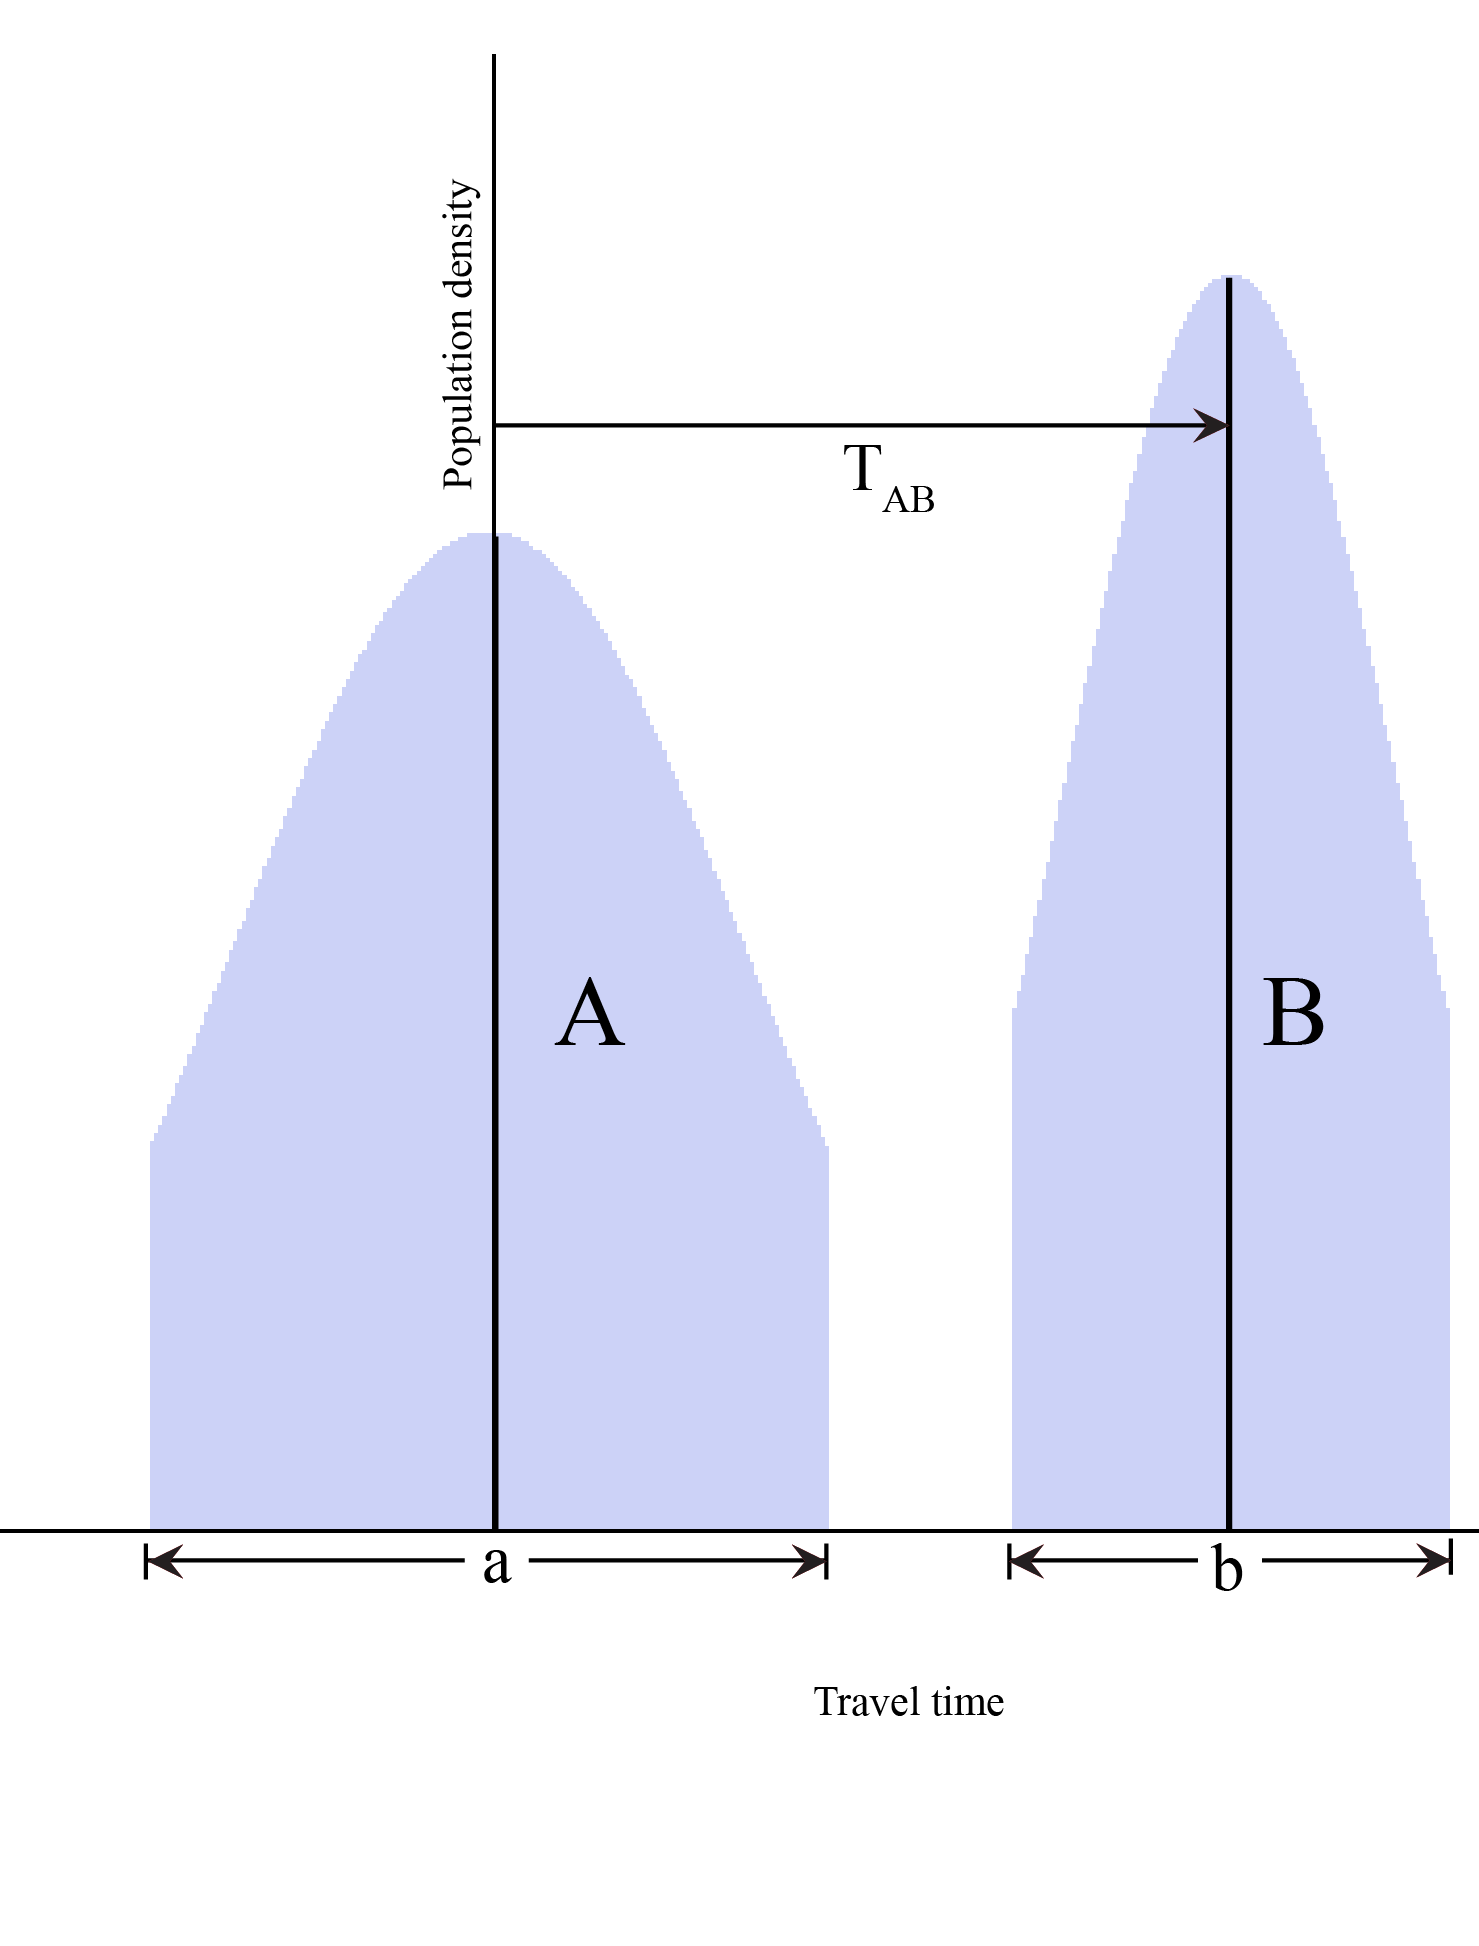
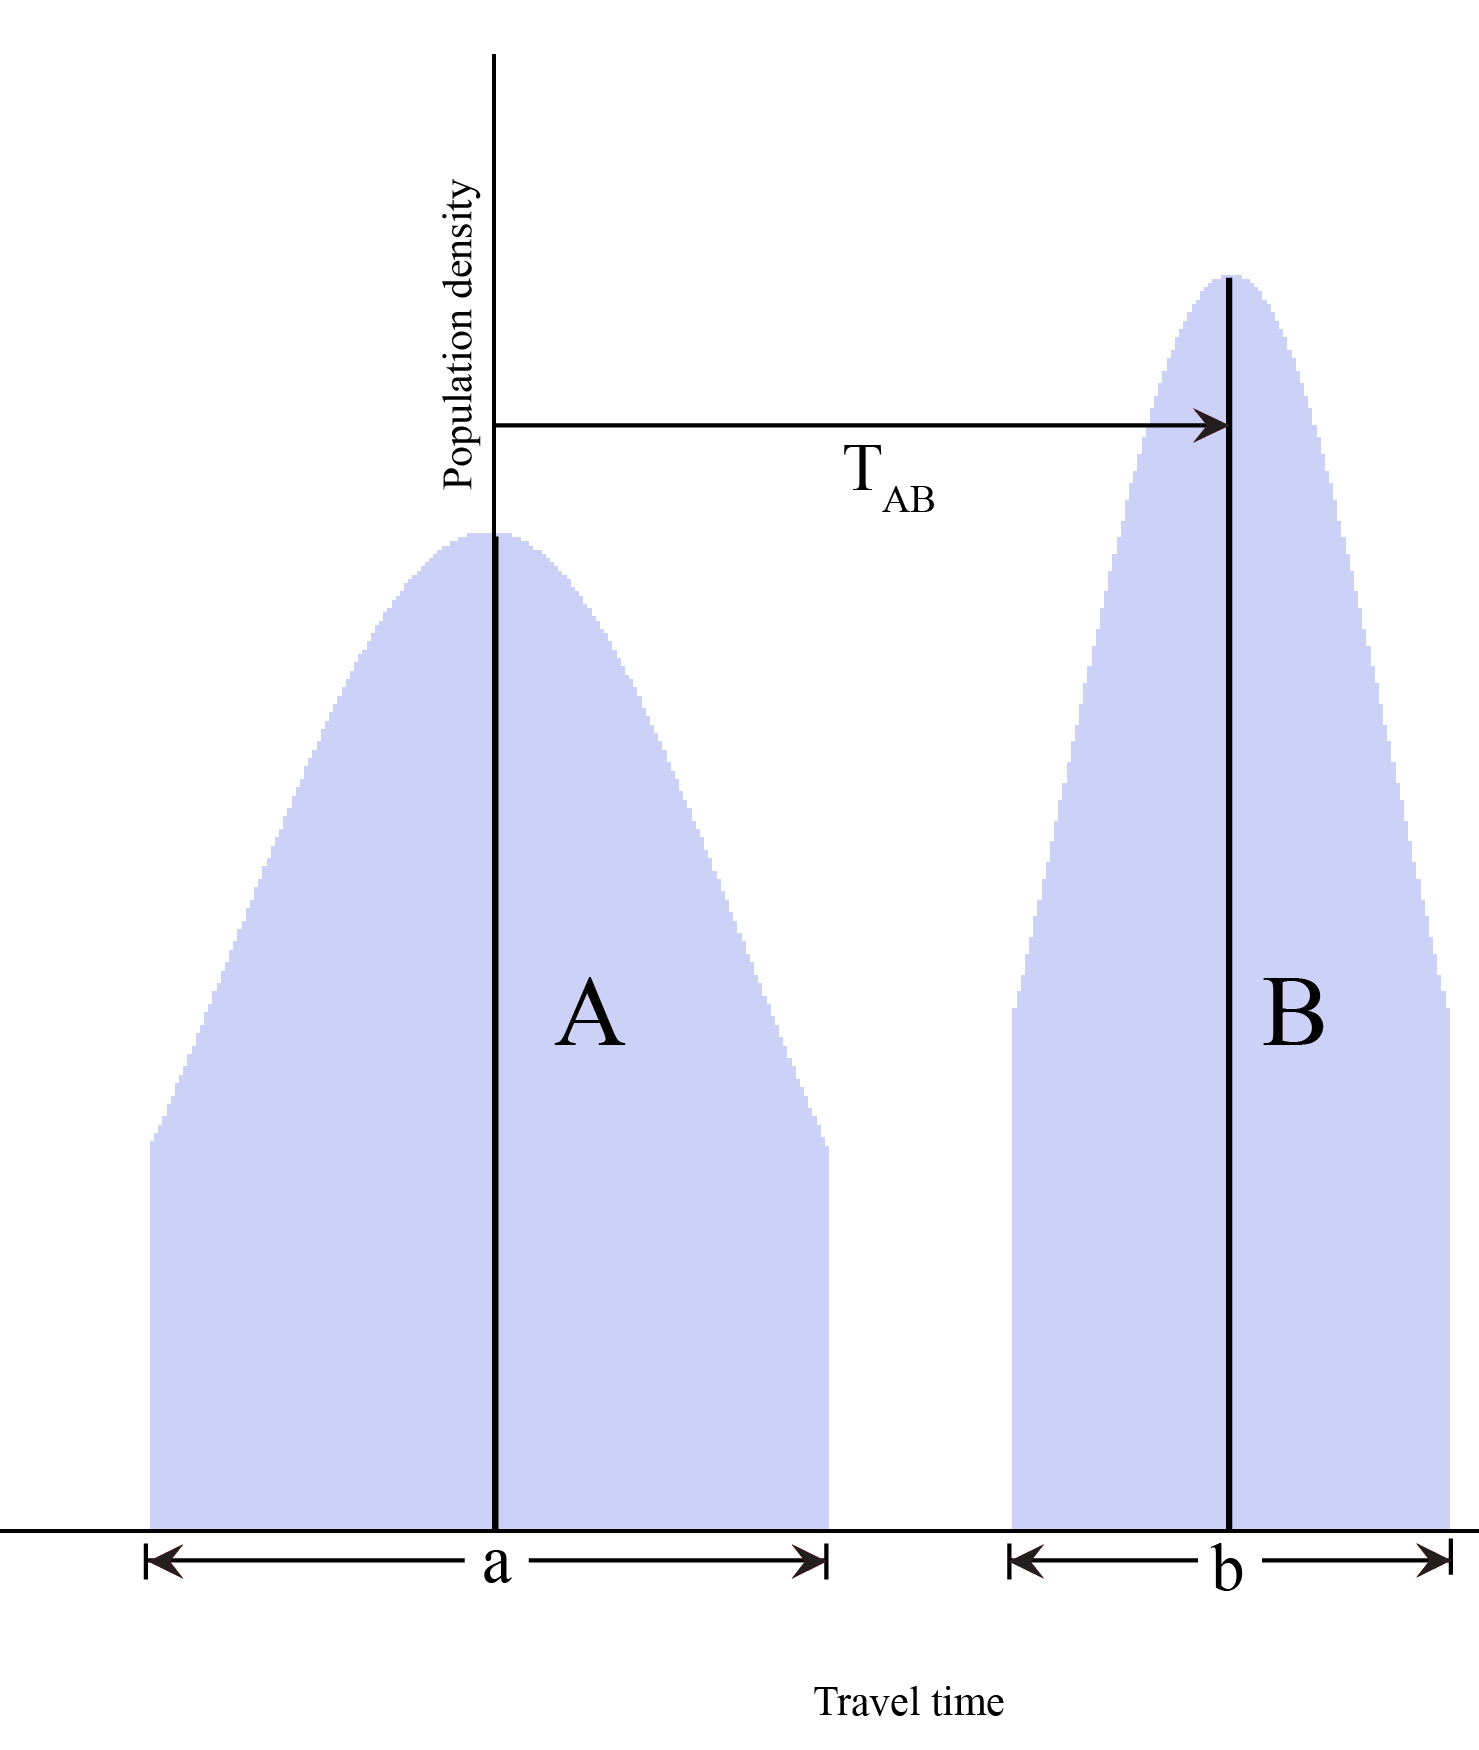
Resized figures & stuff.

diff --git a/LaTeX/paper.tex b/LaTeX/paper.tex
@@ -90,25 +90,42 @@ will be hereafter referred to as zone-to-zone coverage.
 
 A lack of spatial understanding of the county entails the use of a different type of population density. Rather than expressing population as a function of area or distance, we chose to express population density in terms of travel time from a reference point. This is analogous to plotting the number of people a vehicle is likely to meet at each time as it drives along a one-dimensional path.
 
-
-\begin{figure}[htbp]
-\begin{center}
-\includegraphics[width=4in]{B(t).png}
-\caption{An example of a zone's population density as a function of travel time from another zone.}
-\label{B(t)}
-\end{center}
+\begin{figure}
+\centering
+\begin{subfigure}{.45\textwidth}
+  \centering
+  \includegraphics[width=0.9\linewidth]{B(t).png}
+  \caption{An example of a zone's population density as a function of travel time from another zone.}
+  \label{fig:sub1}
+\end{subfigure}%
+\hfill
+\begin{subfigure}{.45\textwidth}
+  \centering
+  \includegraphics[width=0.9\linewidth]{A(t)B(t).png}
+  \caption{An2 example of a zone's population density as a function of travel time from another zone.}
+  \label{fig:sub2}
+\end{subfigure}
+\caption{Overarching caption whatever}
+\label{fig:test}
 \end{figure}
+%\begin{figure}[htbp]
+%\begin{center}
+%\includegraphics[width=4in]{B(t).png}
+%\caption{An example of a zone's population density as a function of travel time from another zone.}
+%\label{B(t)}
+%\end{center}
+%\end{figure}
 
 The population that the ambulance can cover in a second zone from a first zone (not necessarily distinct), will be referred to as zone-to-zone coverage.
 
-\begin{figure}[htbp]
-\begin{center}
+%\begin{figure}[htbp]
+%\begin{center}
 
-\includegraphics[width=4in]{A(t)B(t).png}
-\caption{An2 example of a zone's population density as a function of travel time from another zone.}
-\label{A(t)B(t)}
-\end{center}
-\end{figure}
+%\includegraphics[width=4in]{A(t)B(t).png}
+%\caption{An2 example of a zone's population density as a function of travel time from another zone.}
+%\label{A(t)B(t)}
+%\end{center}
+%\end{figure}
 
 \begin{description}
     \item[$\mathbf{A(t), B(t)}$] \hfill \\
@@ -243,10 +260,10 @@ travel times to any area, it should put significantly more weight on minimizing 
     \begin{tabular}{ p{6.25cm}|p{6.25cm} }
         \textbf{Strengths} & \textbf{Weaknesses}\\
         \hline
-        1. Our model, by virtue of its polynomial-time greedy selection algorithm, is extremely scalable. We can scale up to large datasets, consisting of many, larger zones. Also, because of a non-exponential time algorithm, our model is also extremely efficient. & 1. Because of the greedy nature of our algorithm, we are not guaranteed to find the optimal solution for the location of the ambulances.\\ 
+        1. Our model, by virtue of its polynomial-time greedy selection algorithm, is extremely scalable. We can scale up to large datasets, consisting of many, larger zones. Also, because of a non-exponential time algorithm, our model is also extremely efficient. & 1. Because of the greedy nature of our algorithm, we are not guaranteed to find the optimal solution for the location of the ambulances.\\
         2. Our model is also adaptable to various different population distributions. Population Distributions can vary with the addition of any new data. The more accurate the data, the more accurate the model becomes. & 2. In order to find the optimal solution, our brute force optimizer works in exponential time, so at a large scale, finding the optimal placement of ambulances is near impossible. \\
-        3. Completely flexible model. Depending on any number of nodes, any number of ambulances, and any population distribution, we will be able to find a good answer relatively quickly. 
-        
+        3. Completely flexible model. Depending on any number of nodes, any number of ambulances, and any population distribution, we will be able to find a good answer relatively quickly.
+
     \end{tabular}
     \caption{Model Strengths \& Weaknesses}
     \label{tab:modelprocons}
